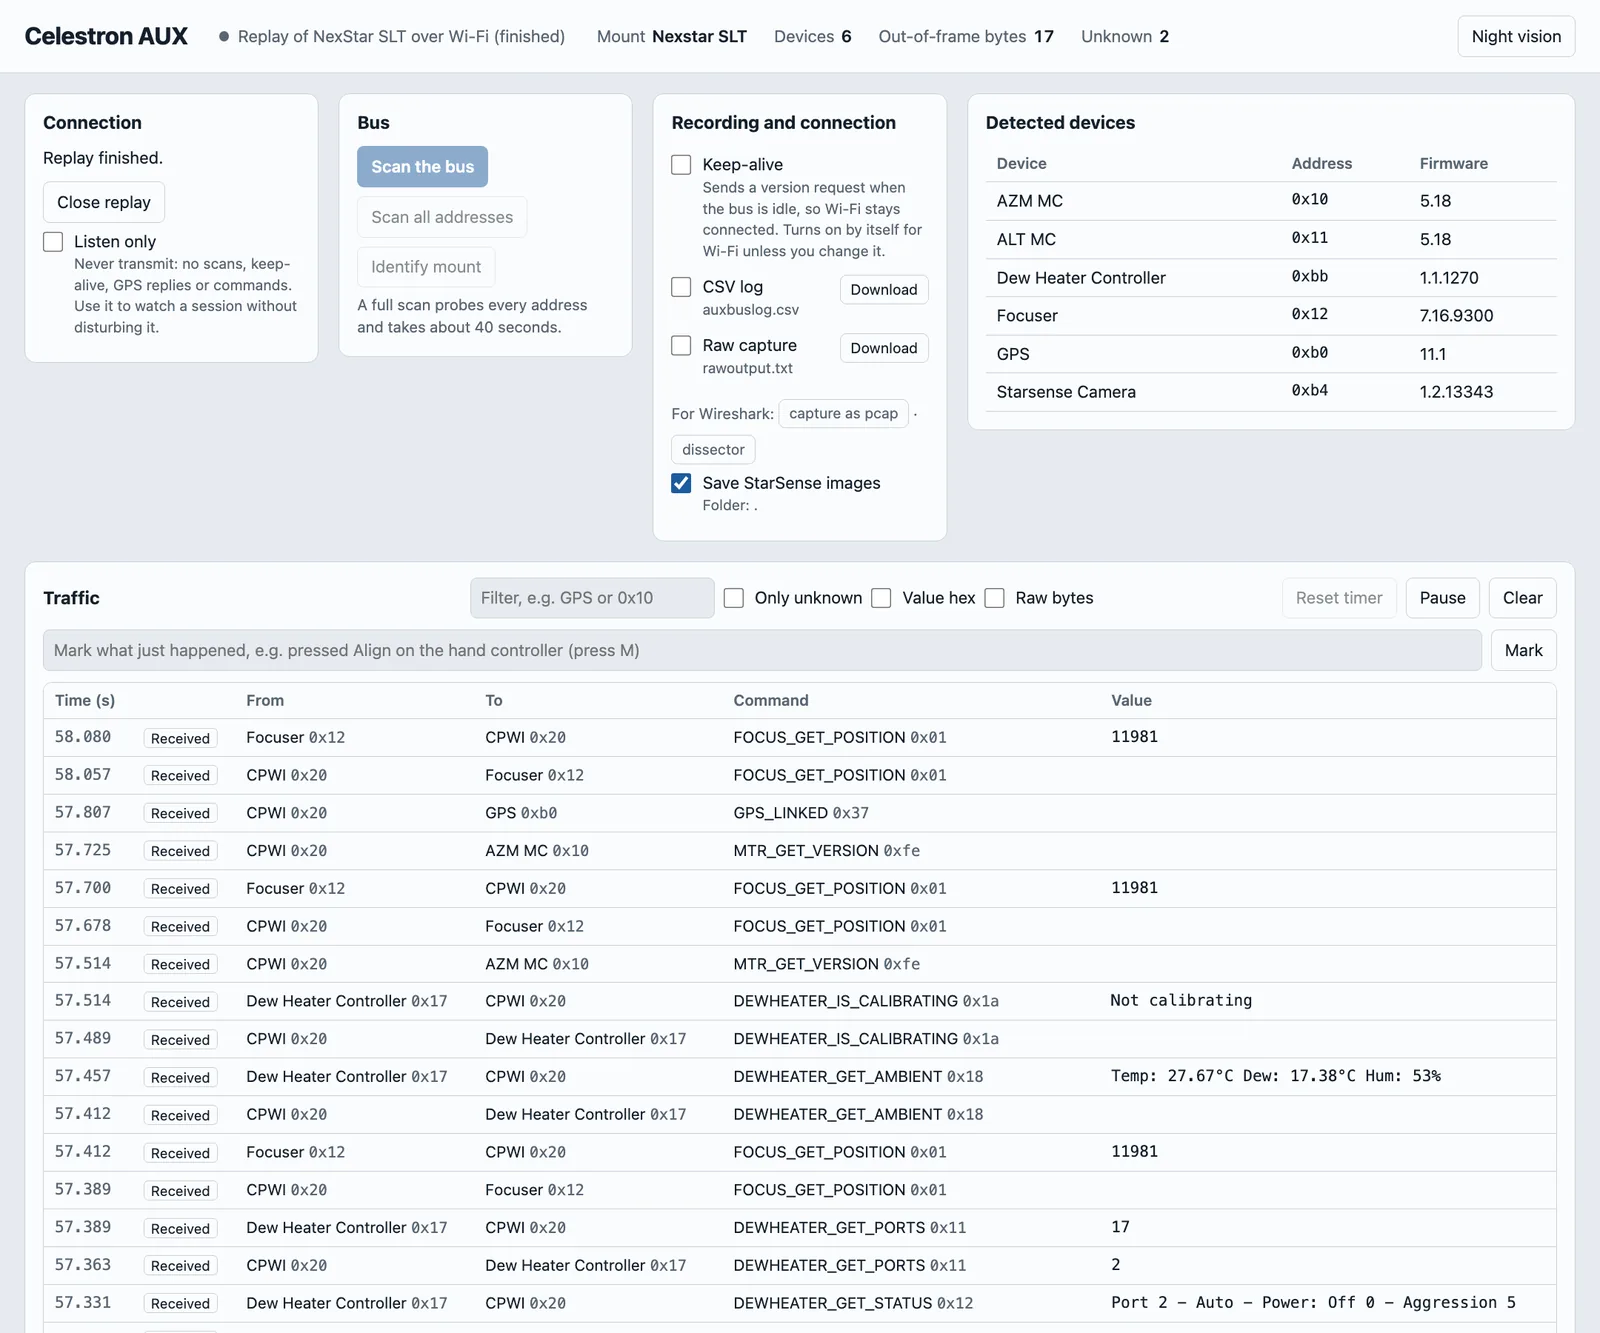
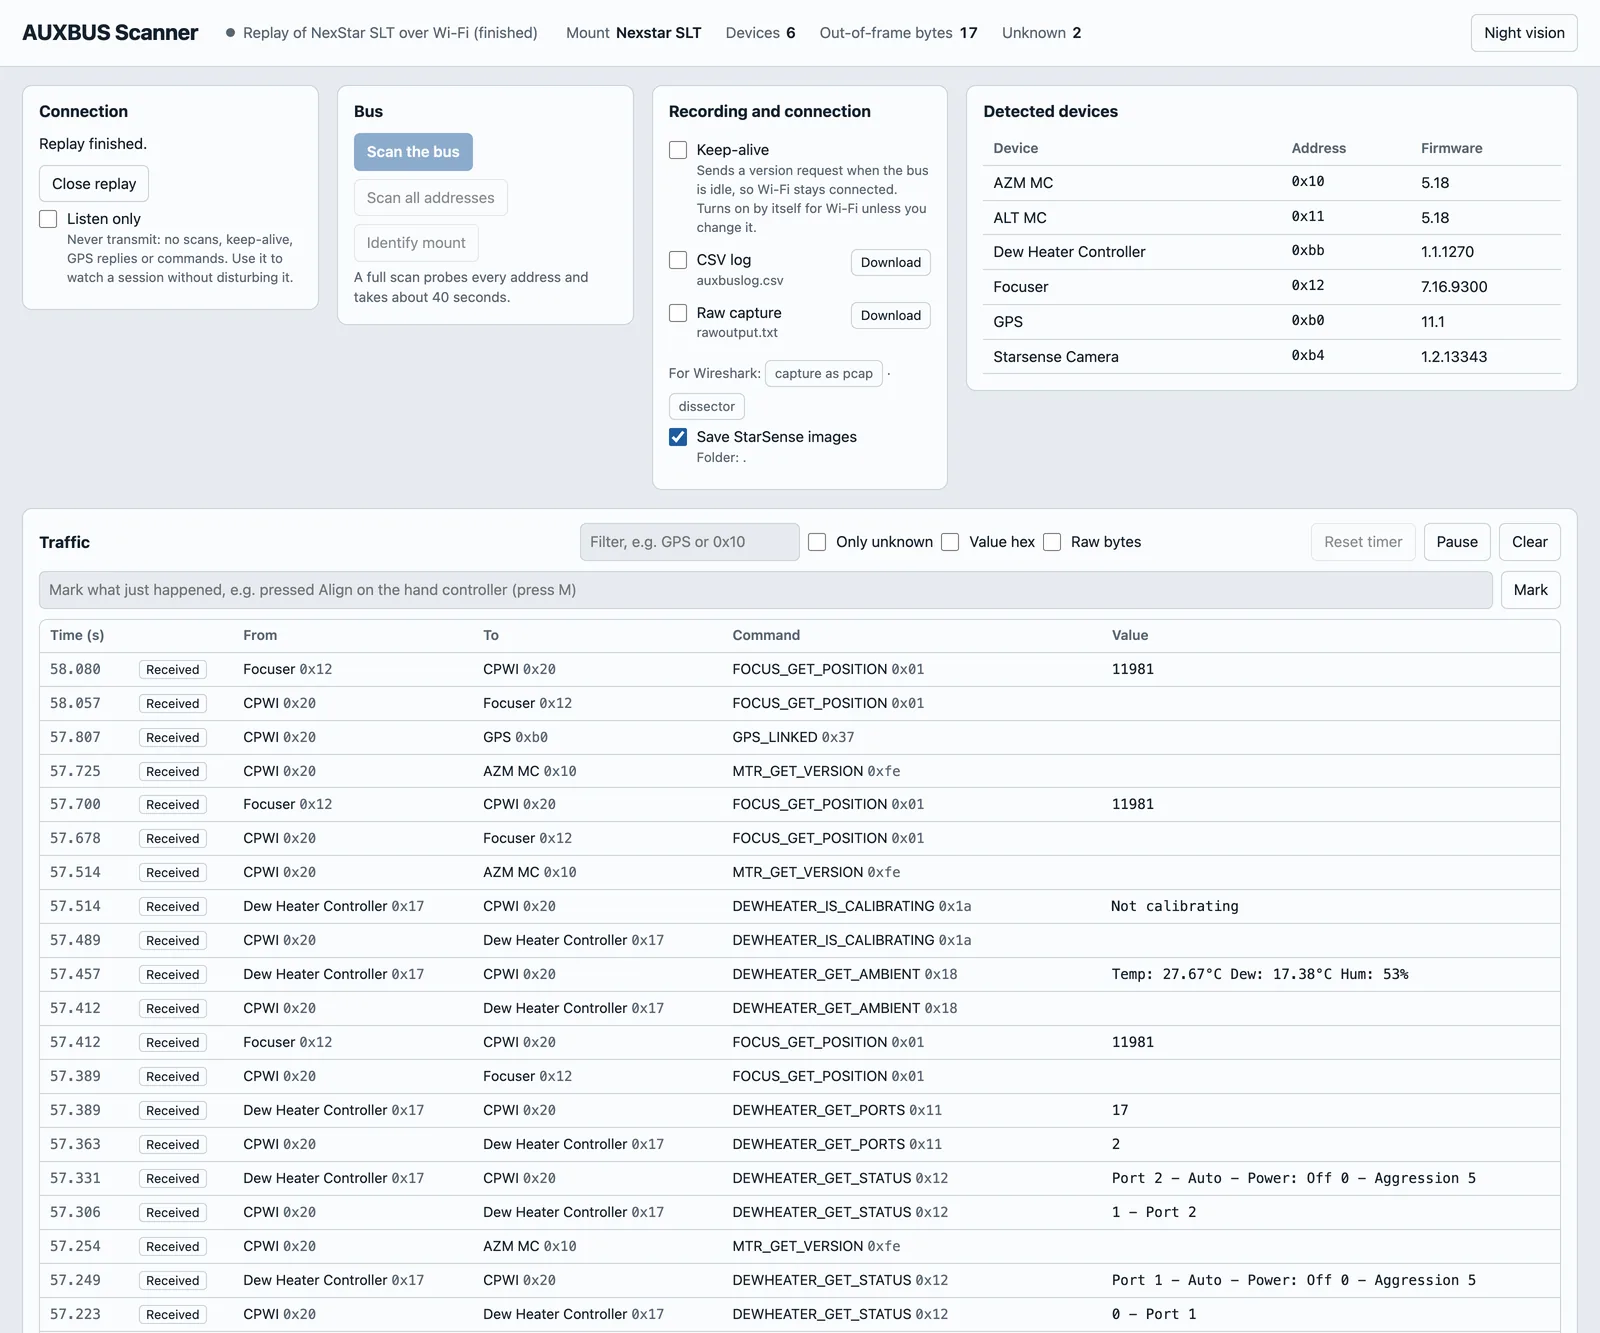
Website: AUXBUS Scanner screenshot, 404 page and wording
The web interface screenshot is retaken with the new name, the 404 page and
the stylesheet name AUXBUS Scanner, the site's wording mentions Celestron only
where it says which telescopes it is for, the web server identifies as
AUXBUS-Scanner, and the nginx TLS cache is renamed.

diff --git a/site/index.html b/site/index.html
@@ -3,13 +3,13 @@
 <head>
 <meta charset="utf-8">
 <meta name="viewport" content="width=device-width, initial-scale=1">
-<title>AUXBUS Scanner · Celestron AUX bus toolkit</title>
-<meta name="description" content="Scanner, monitor, emulator and Wireshark dissector for the Celestron AUX bus: discover the devices on a Celestron mount, decode their traffic and try apps such as CPWI without a telescope.">
+<title>AUXBUS Scanner · telescope AUX bus toolkit</title>
+<meta name="description" content="Scanner, monitor, emulator and Wireshark dissector for the AUX bus of Celestron telescopes: discover the devices on a mount, decode their traffic and try apps such as CPWI without a telescope.">
 <meta name="theme-color" content="#0b1020">
 <link rel="icon" href="favicon.svg" type="image/svg+xml">
 <link rel="stylesheet" href="style.css">
 <meta property="og:title" content="AUXBUS Scanner">
-<meta property="og:description" content="Scanner, monitor, emulator and Wireshark dissector for the Celestron AUX bus.">
+<meta property="og:description" content="Scanner, monitor, emulator and Wireshark dissector for the telescope AUX bus.">
 <meta property="og:type" content="website">
 <meta property="og:url" content="https://auxbus.patriciolatini.com/">
 </head>
@@ -38,15 +38,15 @@
   <div class="wrap hero-grid">
     <div>
       <p class="eyebrow">Open source · GPL-3.0 · Windows, macOS, Linux</p>
-      <h1>See what your Celestron mount is saying.</h1>
-      <p class="lede">AUXBUS Scanner discovers the devices on a Celestron telescope's AUX bus, decodes every packet between them, sends commands, and can emulate a whole mount, so apps such as CPWI can be tried, and their traffic studied, without a telescope.</p>
+      <h1>See what your telescope mount is saying.</h1>
+      <p class="lede">AUXBUS Scanner discovers the devices on the AUX bus of a Celestron telescope, decodes every packet between them, sends commands, and can emulate a whole mount, so apps such as CPWI can be tried, and their traffic studied, without a telescope.</p>
       <div class="cta">
         <a class="btn primary" href="https://github.com/platini2/celestron-aux/releases/latest">Download the latest release</a>
         <a class="btn" href="#install">How to install</a>
       </div>
     </div>
     <figure class="console" aria-label="Decoded traffic from a real NexStar SLT">
-      <figcaption><span class="dot"></span><span class="dot"></span><span class="dot"></span> celestron-aux wifi · NexStar SLT</figcaption>
+      <figcaption><span class="dot"></span><span class="dot"></span><span class="dot"></span> AUXBUS Scanner · Wi-Fi · NexStar SLT</figcaption>
 <pre><code><span class="s">AZM MC</span> → <span class="d">CPWI</span>         <span class="c">MTR_GET_MODEL</span>       <span class="v">0x0783 (Nexstar SLT)</span>
 <span class="s">AZM MC</span> → <span class="d">CPWI</span>         <span class="c">MTR_GET_VERSION</span>     <span class="v">5.18</span>
 <span class="s">ALT MC</span> → <span class="d">CPWI</span>         <span class="c">MTR_GET_POSITION</span>    <span class="v">-2°42'57.54"</span>
@@ -119,7 +119,7 @@
 <section id="emulators">
   <div class="wrap section">
     <h2>No telescope? Emulate one.</h2>
-    <p class="intro">Switch an emulator on and this computer answers on the bus like Celestron devices do. Everything they send is decoded and logged like real traffic, so you can try an app, or work out what it asks for, from your desk.</p>
+    <p class="intro">Switch an emulator on and this computer answers on the bus like the real devices do. Everything they send is decoded and logged like real traffic, so you can try an app, or work out what it asks for, from your desk.</p>
     <div class="two">
       <div>
         <h3>Devices</h3>

diff --git a/site/404.html b/site/404.html
@@ -3,14 +3,14 @@
 <head>
 <meta charset="utf-8">
 <meta name="viewport" content="width=device-width, initial-scale=1">
-<title>Not found · celestron-aux</title>
+<title>Not found · AUXBUS Scanner</title>
 <link rel="icon" href="/favicon.svg" type="image/svg+xml">
 <link rel="stylesheet" href="/style.css">
 </head>
 <body>
 <main class="wrap section">
   <h1>Lost in space.</h1>
-  <p class="intro">This page does not exist. <a href="/">Back to celestron-aux</a>.</p>
+  <p class="intro">This page does not exist. <a href="/">Back to AUXBUS Scanner</a>.</p>
 </main>
 </body>
 </html>

diff --git a/site/style.css b/site/style.css
@@ -1,4 +1,4 @@
-/* celestron-aux site: night sky, with the red of the web interface's night-vision theme. */
+/* AUXBUS Scanner site: night sky, with the red of the web interface's night-vision theme. */
 :root {
   --bg: #0b1020;
   --bg-band: #10172b;

diff --git a/celestron_aux/web/server.py b/celestron_aux/web/server.py
@@ -170,7 +170,7 @@ class WebServer:
 
 def _make_handler(server: WebServer) -> type:
     class Handler(BaseHTTPRequestHandler):
-        server_version = "celestron-aux"
+        server_version = "AUXBUS-Scanner"
 
         def log_message(self, format: str, *args: Any) -> None:  # noqa: A002 - stdlib signature
             log.debug("%s - %s", self.address_string(), format % args)

diff --git a/CHANGELOG.md b/CHANGELOG.md
@@ -1,5 +1,12 @@
 # Changelog
 
+## Unreleased
+
+### Changed
+
+- The web server answers with `Server: AUXBUS-Scanner`. The website's
+  screenshot, its "Not found" page and its wording use the new name.
+
 ## 1.3.3
 
 ### Added
